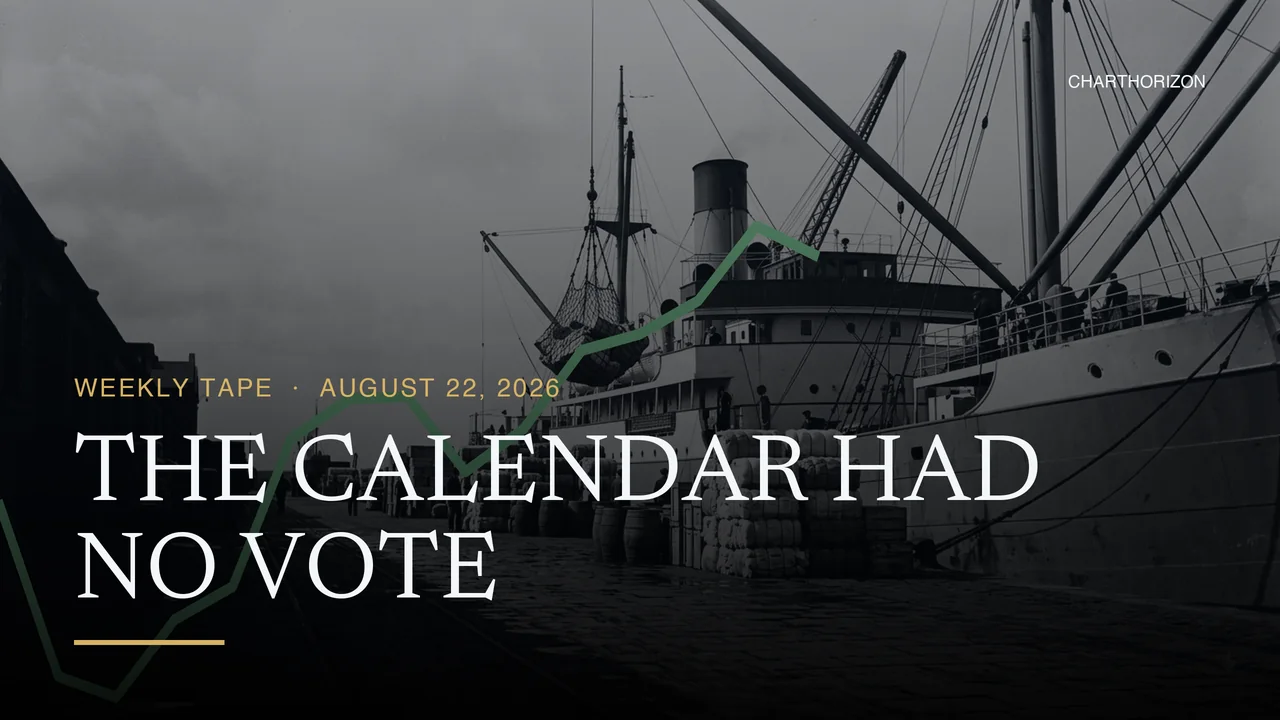
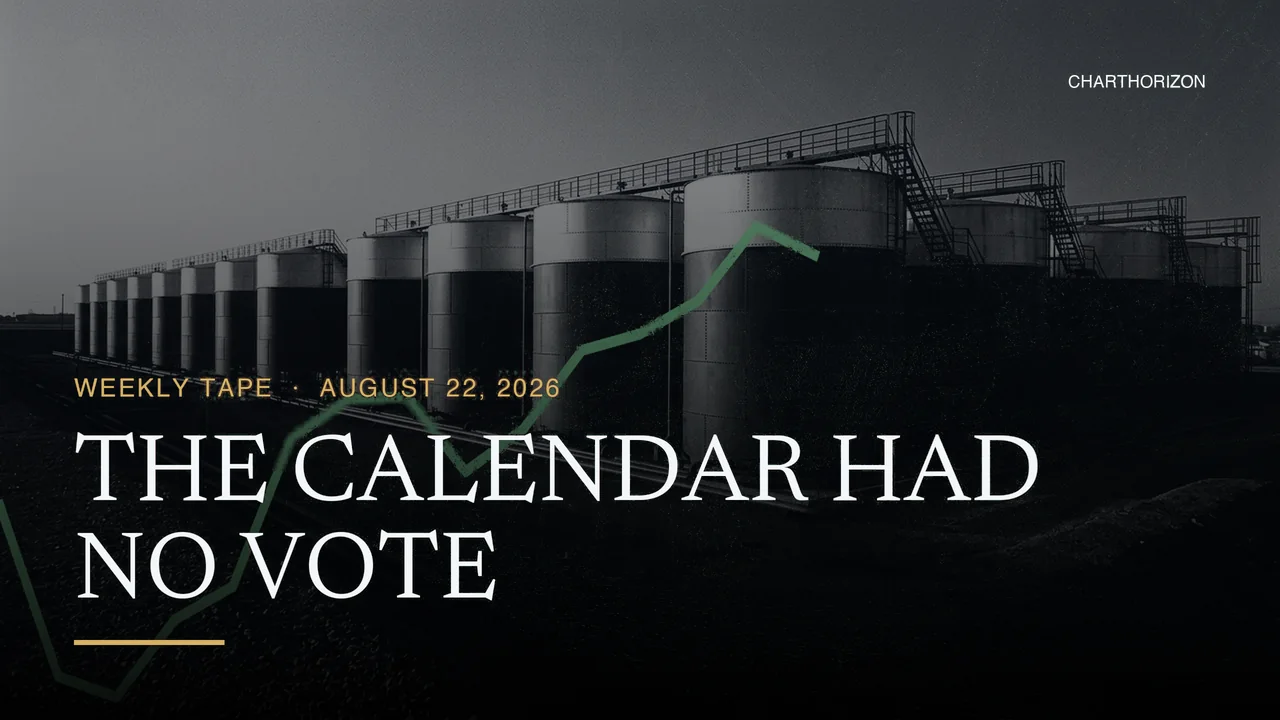
Title cards: five new motifs, and four posts off the repeats
The pool carried motifs for six of the dashboard's nine categories. Energy
(4 markets) and Livestock/Dairy (4) had none at all, and nothing in it said
season or said policy — two of the three lights /about/ says the desk reads
by. Batch 3 adds a crude tank farm, cracking towers under a flare, a dust
wall, a creamery platform and a bank vault door (masters and the sendable
prompts live in the private content pool, blocks 15-18 and 20).

One spec changed, and it is this module's doing: the bright mass now sits
INBOARD of the top right corner, because render() draws the cream wordmark
there. The five cards built from `fx` measure 128/255 behind it, 3.6:1
against cream and the worst in the corpus; these five measure 6.6 to 9.7:1.
Judged as covers rather than as photographs, per the pool's brief: through
the duotone and the scrim they sit at p98 80-139 against the eight already
shipping at 79-140, and at 246px each still separates by silhouette alone.

Four posts move to one, chosen by subject rather than by gap: crude's August
to the tank farm, the Fed-into-$100-oil note to the flare, the season issue
to the dust wall, the 30-year note to the vault. That takes the worst repeat
from five to three. It cannot reach one — 21 posts over 13 motifs means at
least eight pairs, which is arithmetic and not a shortage of pictures.

THE PRICE BANDS ARE CARRIED OVER, NOT REDRAWN. The chart cards these were
built from are not in this repo and none of the committed cards/*.webp
[…]

diff --git a/docs/title_card.py b/docs/title_card.py
@@ -73,6 +73,21 @@ MOTIFS = {
     # makes it the one motif that carries "a bid" rather than a market, and the reason
     # it is registered separately instead of under "grains" (taken by the elevators).
     "pit":      "thumb-arch-wheat-pit-1920.jpg",
+    # Batch 3 (2026-09-19), generated for the gaps the pool had: Energy and
+    # Livestock/Dairy carried no motif at all, and nothing said season or policy.
+    # Their prompts sit in the content repo's prompts.txt as blocks 15-18 and 20,
+    # which is what these filenames count from. Two spec changes there, both
+    # measured rather than assumed: the bright mass stays INBOARD of the top right
+    # corner, because that is where this module draws the cream wordmark (on the
+    # five cards built from "fx" it sits at 128/255, 3.6:1 — the worst in the
+    # corpus; these five measure 6.6 to 9.7:1). And the generator returns
+    # 1376x768 whatever canvas you ask for, so the >=1920x1080 in BRIEF.md is
+    # still unmet and the crop headroom is ~7%.
+    "energy":   "thumb-scene-15.jpg",                # tank farm, and storage
+    "refining": "thumb-scene-16.jpg",                # cracking towers, one flare
+    "season":   "thumb-scene-17.jpg",                # the dust wall
+    "dairy":    "thumb-scene-18.jpg",                # creamery platform, milk cans
+    "vault":    "thumb-scene-20.jpg",                # the vault door
 }
 
 SS = 2                                    # supersample, then downsample once at the end

diff --git a/_posts/2026-08-22-the-calendar-had-no-vote.md b/_posts/2026-08-22-the-calendar-had-no-vote.md
@@ -6,7 +6,7 @@ subtitle: "Crude was supposed to fall in August and rose. Tested across 5,026 ma
 sources: "Prices through 21 August 2026 · 35 markets tested over 2006–2026 · a seasonality note · Data: ChartHorizon & press reports · Charts: ChartHorizon"
 cards: /assets/posts/2026-08-22-the-calendar-had-no-vote/cards
 image: /assets/posts/2026-08-22-the-calendar-had-no-vote/title.jpg
-image_alt: "Crude's August, twenty times over — WTI front month, each August rebased to 31 July equals 100, with 2026 running well above the twenty-year average"
+image_alt: "Title card: a crude oil tank farm in the last light, with crude's price action drawn across it"
 seo_title: "Does a Failed Seasonal Predict a Bigger Move? 35 Markets"
 description: "Crude was supposed to fall in August and rose. Tested across 5,026 market-months since 2006, the move after a failed season is slightly smaller, not larger."
 ---

diff --git a/_posts/2026-09-17-priced-to-pass.md b/_posts/2026-09-17-priced-to-pass.md
@@ -6,7 +6,7 @@ subtitle: "The Fed raised rates into $100 oil on Wednesday, while the futures ma
 sources: "Prices through 16 September 2026 · COT through the 8 September report · Data: ChartHorizon, CFTC, CME Group, U.S. Treasury, Federal Reserve, FRED & press reports · Charts: ChartHorizon"
 cards: /assets/posts/2026-09-17-priced-to-pass/cards
 image: /assets/posts/2026-09-17-priced-to-pass/title.jpg
-image_alt: "Title card: a freighter at the dock, with WTI crude oil's price action since June drawn across it"
+image_alt: "Title card: a refinery's cracking towers under a gas flare, with WTI crude oil's price action since June drawn across it"
 seo_title: "WTI Backwardation and the Fed's First Hike Since 2023"
 description: "The Fed hiked into $100 oil. The WTI futures curve prices December 2027 at $72.55, almost $30 under October: the market expects the shock to pass."
 ---

diff --git a/_posts/2026-08-20-bid-of-last-resort.md b/_posts/2026-08-20-bid-of-last-resort.md
@@ -6,7 +6,7 @@ subtitle: "The 30-year yield touched 5.33 per cent, its highest since 2007, and 
 sources: "Prices through 19 August 2026 · COT through the 11 August report · a rates note · Data: ChartHorizon, CFTC & press reports · Charts: ChartHorizon"
 cards: /assets/posts/2026-08-20-bid-of-last-resort/cards
 image: /assets/posts/2026-08-20-bid-of-last-resort/title.jpg
-image_alt: "Title card: the trading posts of 1922, with the 30-year Treasury bond's price action drawn across them"
+image_alt: "Title card: the open door of a bank vault, with the 30-year Treasury bond's price action drawn across it"
 seo_title: "Treasury Doubles Long-Bond Buybacks, Hedgers Long First"
 description: "The 30-year yield touched 5.33 per cent, its highest since 2007, and the Treasury doubled its buybacks. The hedgers had been long since 11 August."
 ---

diff --git a/_posts/2026-06-09-weekly-tape.md b/_posts/2026-06-09-weekly-tape.md
@@ -6,7 +6,7 @@ subtitle: "Corn, soybeans and Chicago wheat all turn bearish 4/4 as season, COT 
 sources: "Prices through June 8 · COT report June 2 · Data: ChartHorizon"
 cards: /assets/posts/2026-06-09-weekly-tape/cards
 image: /assets/posts/2026-06-09-weekly-tape/title.jpg
-image_alt: "Title card: an exchange facade in 1928, with the week's price action drawn across it"
+image_alt: "Title card: a dust storm rolling over a plains farmstead, with the week's price action drawn across it"
 # SEO-only fields (do not change the on-page <h1>/dek): keyword-rich title + meta description for search results.
 seo_title: "Grain Futures Turn Bearish: Corn, Soybeans, Wheat"
 description: "Corn, soybeans and Chicago wheat all turn bearish 4/4 as season, COT positioning, hedging and term structure align. Weekly grain futures notes."
